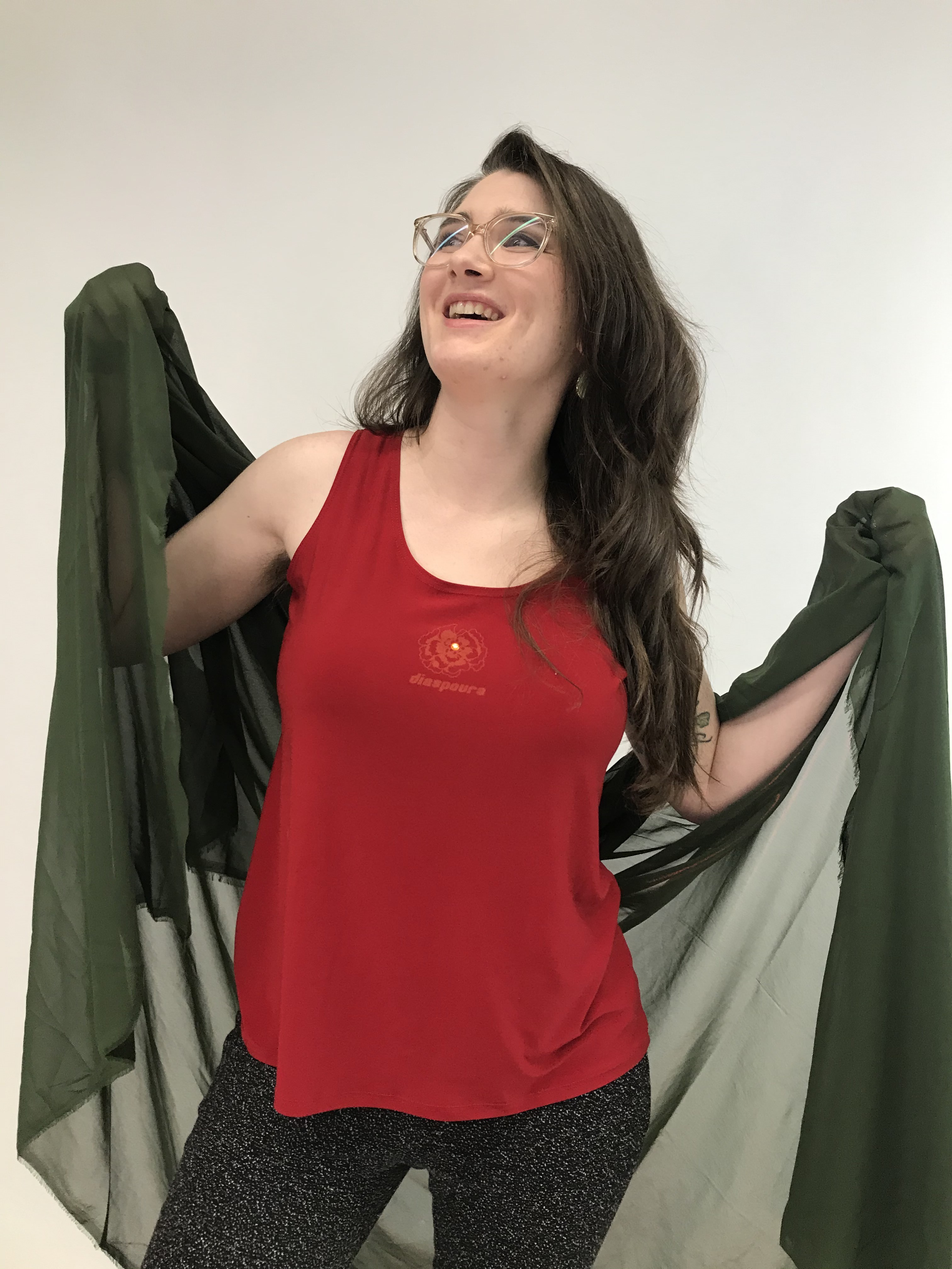
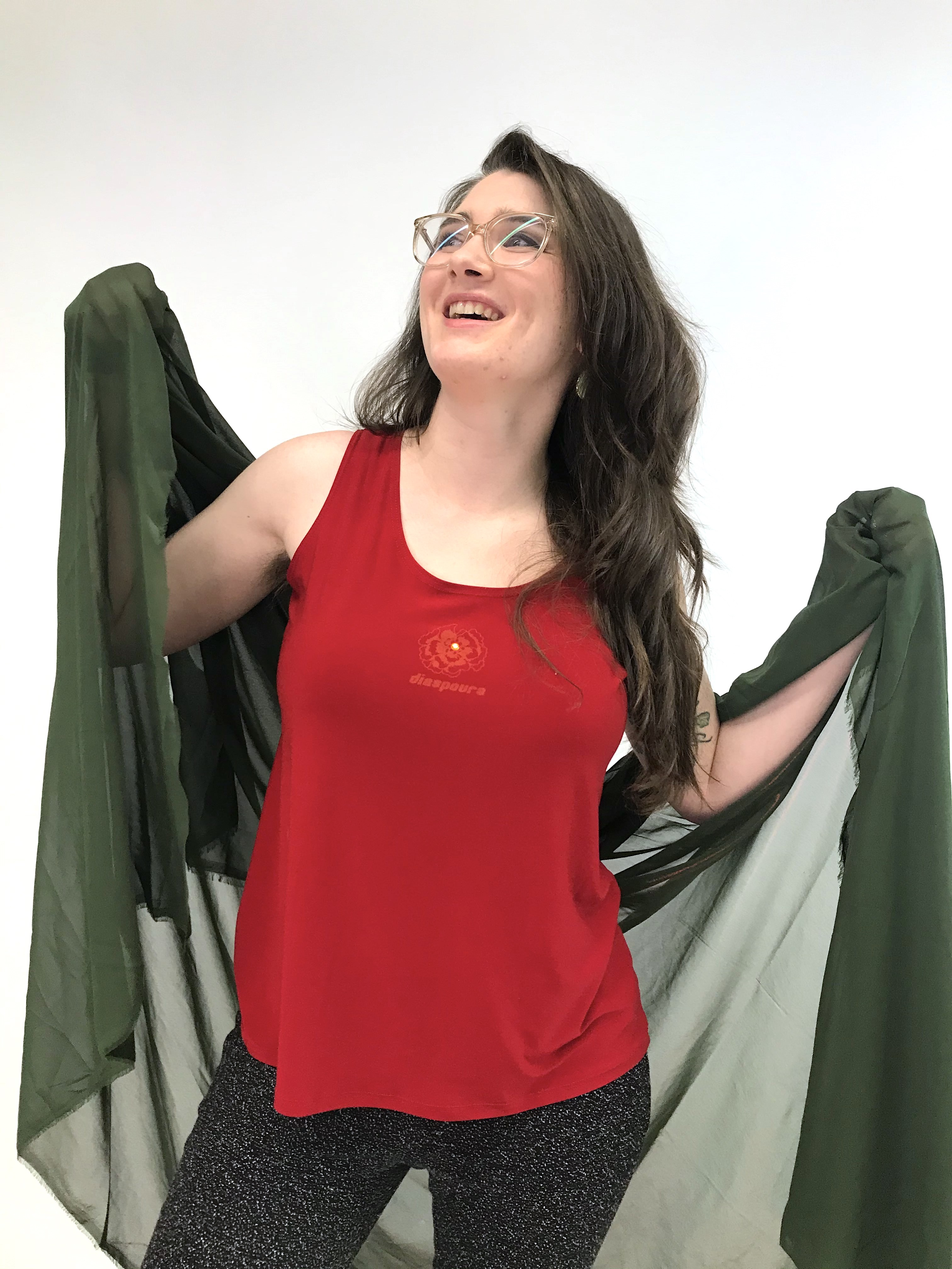
edits

diff --git a/merch.htm b/merch.htm
@@ -200,7 +200,7 @@ var ml_account = ml('accounts', '1175686', 'k3d7q0o7v7', 'load');
 		<div class="col-12 col-sm-6 col-md-4">
 			<center> <a href="merch-item.htm#dc=racer-shirt">
       <div class="picCont">
-					<img class="previewPic" src="images/merch/merch_spring2020/racer-shirt1.jpg">
+					<img class="previewPic" src="images/merch/merch_spring2020/racer-shirt6.jpg">
           <div id="go" class="overlay">
 						<div class="text">RACER SHIRT<br>size m</div>
 					</div>
